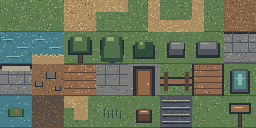
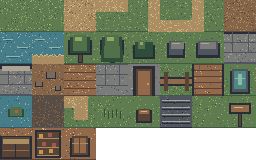
dress hub shop as a cozy interior

diff --git a/godot/game/world/MAP-FORMAT.md b/godot/game/world/MAP-FORMAT.md
@@ -70,6 +70,9 @@ tiles receive full 32×32 collision from `TilesetBuilder`.
 | `*` | flower_patch | (6,3) | no |
 | `'` | grass_tuft | (3,3) | no |
 | `l` | water_lily | (0,3) | no |
+| `c` | shop_counter | (0,4) | **yes** |
+| `h` | shop_shelf | (1,4) | **yes** |
+| `q` | shop_crate | (2,4) | **yes** |
 
 Do not add a second mapping in generator or renderer code. Extend
 `TileVocabulary.TILES` and this reference together.

diff --git a/godot/game/assets/ASSET-MANIFEST.md b/godot/game/assets/ASSET-MANIFEST.md
@@ -4,7 +4,7 @@ This gates future replacement when the owner picks real art direction; all entri
 
 | File | Source | License | Date | Note |
 |---|---|---|---|---|
-| `generated/tiles.png` | authored/generated by `tools/gen_assets.gd` | CC0 / public-domain (self-authored) | 2026-07-10 | 32-tile atlas; 32 px cells in an 8×4 grid. |
+| `generated/tiles.png` | authored/generated by `tools/gen_assets.gd` | CC0 / public-domain (self-authored) | 2026-07-10 | 35-tile atlas including shop counter, shelf, and crate; 32 px cells in an 8×5 grid. |
 | `generated/char_player.png` | authored/generated by `tools/gen_assets.gd` | CC0 / public-domain (self-authored) | 2026-07-10 | Self-authored cohesive DS-era placeholder. |
 | `generated/char_companion.png` | authored/generated by `tools/gen_assets.gd` | CC0 / public-domain (self-authored) | 2026-07-10 | Self-authored cohesive DS-era placeholder. |
 | `generated/char_elder.png` | authored/generated by `tools/gen_assets.gd` | CC0 / public-domain (self-authored) | 2026-07-10 | Self-authored cohesive DS-era placeholder. |